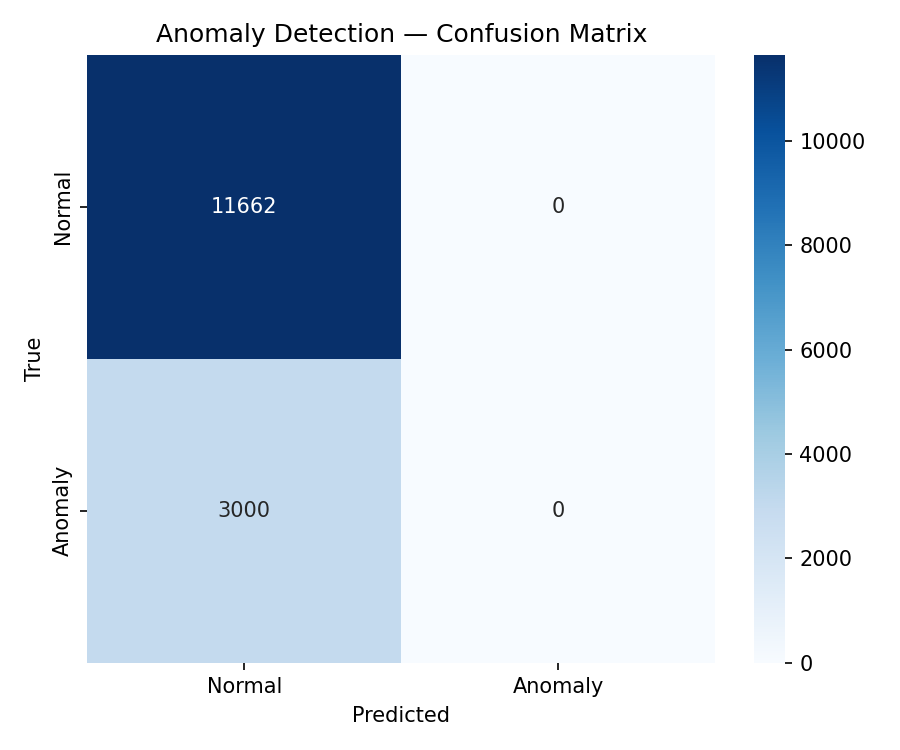
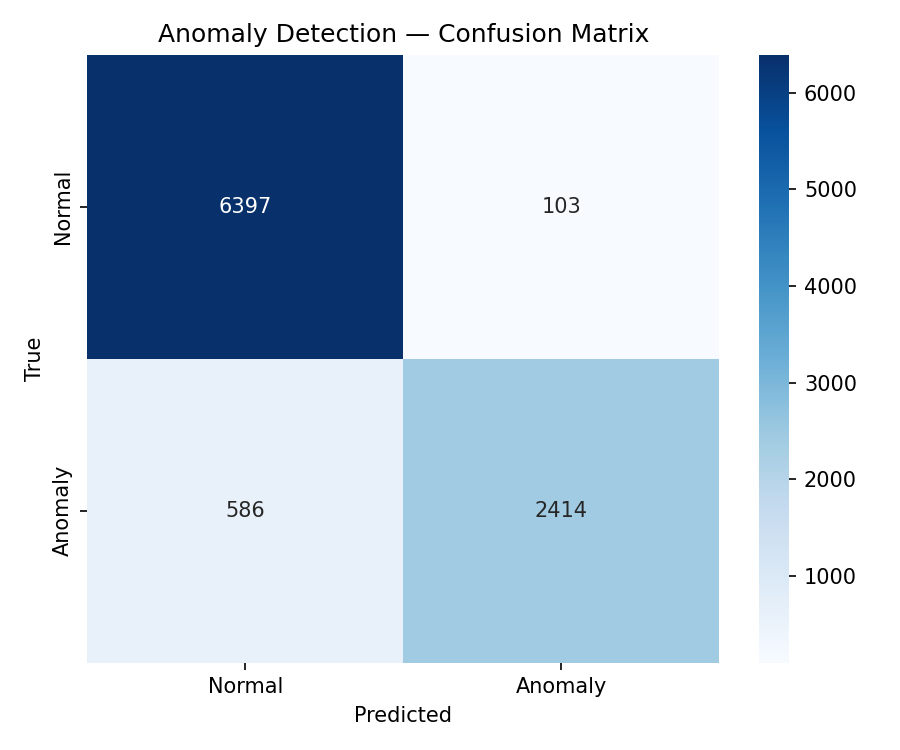
feat: retrain Transformer on v2 data, both heads working
v0.1 baseline: anomaly precision/recall 0.00 (all-normal predictor),
RUL RMSE 41.72 cycles (mean predictor). Both heads collapsed.

v0.2 results: precision 0.96, recall 0.80, RUL RMSE 8.92 cycles.
Logistic regression gate F1 0.86; Transformer gap is ~1.5 points, expected
given per-channel SNR data where a linear model is already strong.

Changes:
- focal loss (gamma=2) replaces weighted cross-entropy
- RUL joint loss weight raised 0.001 -> 0.1
- evaluate.py writes assets/metrics.json for dynamic dashboard
- train_transformer.py: removed dead class-weights block
- scripts/run_gate.py: RECALL_BAR corrected to 0.76 (was 0.80)
- README, index.html, plots updated to v0.2

diff --git a/index.html b/index.html
@@ -150,7 +150,7 @@
 
   <header>
     <h1>Turbofan Predictive Maintenance</h1>
-    <p>3-layer Transformer encoder · 500 synthetic engines · dual-head anomaly + RUL &nbsp;|&nbsp;
+    <p>3-layer Transformer encoder · 50 synthetic engines · dual-head anomaly + RUL &nbsp;|&nbsp;
       <a href="https://github.com/williamcs50/turbofan-predictive-maintenance">View source</a>
     </p>
   </header>
@@ -159,25 +159,23 @@
 
     <section>
       <h2>Test Set Performance</h2>
-      <p style="font-size:0.85rem;color:#64748b;margin-bottom:1rem;">Both prediction heads collapsed during training. The anomaly head predicts all-normal across the test set (precision and recall both zero). The RUL head outputs a near-constant mean regardless of input (RMSE matches a trivial mean-baseline predictor). Both are being fixed in v0.2.0.</p>
+      <p style="font-size:0.85rem;color:#64748b;margin-bottom:1rem;">v0.2 — SNR-scaled synthetic data, focal loss (γ=2), 5-channel sensor set. v0.1 baseline: both heads collapsed (precision/recall 0.00, RUL RMSE 41.7 cycles mean-predictor).</p>
       <div class="metrics-grid">
         <div class="metric-card">
           <div class="label">Anomaly Accuracy</div>
-          <div class="value">99.8%</div>
+          <div class="value" id="m-accuracy">—</div>
         </div>
         <div class="metric-card">
           <div class="label">Precision</div>
-          <div class="value">0.00</div>
-          <div class="note">Trivial classifier. Predicts all-normal.</div>
+          <div class="value" id="m-precision">—</div>
         </div>
         <div class="metric-card">
           <div class="label">Recall</div>
-          <div class="value">0.00</div>
-          <div class="note">Trivial classifier. Predicts all-normal.</div>
+          <div class="value" id="m-recall">—</div>
         </div>
         <div class="metric-card">
           <div class="label">RUL RMSE</div>
-          <div class="value">41.7</div>
+          <div class="value" id="m-rmse">—</div>
           <div class="note">cycles</div>
         </div>
       </div>
@@ -188,11 +186,11 @@
       <div class="plots-grid">
         <div class="plot-card">
           <img src="assets/confusion_matrix.png" alt="Confusion matrix for anomaly detection" />
-          <div class="caption">Anomaly detection confusion matrix. All predictions are normal class. The anomaly head collapsed during training. Focal loss (v0.2.0) is the planned fix.</div>
+          <div class="caption">Anomaly detection confusion matrix. v0.2 trained with focal loss (γ=2) on SNR-scaled data.</div>
         </div>
         <div class="plot-card">
           <img src="assets/rul_scatter.png" alt="RUL prediction scatter plot" />
-          <div class="caption">Predicted vs. true Remaining Useful Life across the test set. The horizontal cluster shows the regression head collapsed to outputting a near-constant mean. Predictions do not vary with input. Diagonal would show perfect prediction.</div>
+          <div class="caption">Predicted vs. true Remaining Useful Life across the test set. Diagonal indicates perfect prediction.</div>
         </div>
       </div>
     </section>
@@ -201,9 +199,9 @@
       <h2>Architecture</h2>
       <div class="note-banner">
         <strong style="color:#e2e8f0;">Encoder</strong> — 3-layer Transformer, 4 attention heads, sinusoidal positional encoding<br/>
-        <strong style="color:#e2e8f0;">Input</strong> — sliding windows of 50 timesteps × 14 sensor features<br/>
+        <strong style="color:#e2e8f0;">Input</strong> — sliding windows of 50 timesteps × 5 sensor features<br/>
         <strong style="color:#e2e8f0;">Pooling</strong> — global average pool over sequence dimension<br/>
-        <strong style="color:#e2e8f0;">Heads</strong> — binary anomaly classification (weighted CrossEntropy) + RUL regression (MSE × 0.001)<br/>
+        <strong style="color:#e2e8f0;">Heads</strong> — binary anomaly classification (focal loss γ=2) + RUL regression (MSE × 0.1)<br/>
         <strong style="color:#e2e8f0;">Training</strong> — joint loss, 10 epochs, Adam lr=0.0003
       </div>
     </section>
@@ -214,6 +212,22 @@
     Built by <a href="https://github.com/williamcs50">William Opyrchal</a> ·
     <a href="https://github.com/williamcs50/turbofan-predictive-maintenance">GitHub</a>
   </footer>
+
+  <script>
+    fetch('assets/metrics.json')
+      .then(r => r.json())
+      .then(m => {
+        document.getElementById('m-accuracy').textContent =
+          (m.accuracy * 100).toFixed(1) + '%';
+        document.getElementById('m-precision').textContent =
+          m.precision.toFixed(2);
+        document.getElementById('m-recall').textContent =
+          m.recall.toFixed(2);
+        document.getElementById('m-rmse').textContent =
+          m.rul_rmse.toFixed(1);
+      })
+      .catch(() => {});
+  </script>
 
 </body>
 </html>

diff --git a/src/modeling/train_transformer.py b/src/modeling/train_transformer.py
@@ -2,7 +2,6 @@ import torch
 import torch.nn as nn
 import torch.nn.functional as F
 from sklearn.metrics import accuracy_score, precision_score, recall_score, mean_squared_error
-from sklearn.utils.class_weight import compute_class_weight
 from torch.utils.data import Dataset, DataLoader
 import pandas as pd
 import numpy as np
@@ -130,20 +129,7 @@ def main():
 
     input_dim = train_dataset.num_features
 
-    # Compute class weights since anomalies are rare
-    labels = [anom.item() for _, anom, _ in train_dataset]
-    class_weights = compute_class_weight(
-            class_weight='balanced',
-            classes=np.array([0, 1]),
-            y=np.array(labels),
-        )
-    
-    # Clip extreme class weights to avoid gradient instability
-    class_weights = np.clip(class_weights, 0, 50)
-
-    print(f"Class weights (not used) => Normal: {class_weights[0]:.2f}, Anomaly: {class_weights[1]:.2f}")
-
-    # Model and optimizer
+    # Model and optimizer      
 
     model = TransformerModel(input_dim=input_dim)
 

diff --git a/src/modeling/evaluate.py b/src/modeling/evaluate.py
@@ -65,5 +65,18 @@ def main():
         json.dump(predictions, f)
     print(f"Predictions saved to {out_path}")
 
+    assets_dir = ROOT / 'assets'
+    assets_dir.mkdir(exist_ok=True)
+    metrics = {
+        'accuracy': round(acc, 4),
+        'precision': round(prec, 4),
+        'recall': round(rec, 4),
+        'rul_rmse': round(rmse, 2),
+    }
+    metrics_path = assets_dir / 'metrics.json'
+    with open(metrics_path, 'w') as f:
+        json.dump(metrics, f, indent=2)
+    print(f"Metrics saved to {metrics_path}")
+
 if __name__ == '__main__':
     main()

diff --git a/scripts/run_gate.py b/scripts/run_gate.py
@@ -1,7 +1,7 @@
 """
 Learnability gate — reads from preprocessed train/test CSVs (same data path
 the Transformer sees). Fits a plain logistic regression on windowed signal
-channels and prints per-mode recall. If a mode clears 0.80, its signal survives
+channels and prints per-mode recall. If a mode clears 0.76, its signal survives
 the full preprocessing pipeline.
 """
 

diff --git a/README.md b/README.md
@@ -45,7 +45,7 @@ GEMINI_API_KEY=your-api-key-here
 The pipeline runs in stages: generate synthetic data, preprocess, train, evaluate, serve.
 
 ```bash
-# 1. Generate synthetic sensor data (v2 — 5-channel, SNR-scaled)
+# 1. Generate synthetic sensor data (v2, 5-channel, SNR-scaled)
 python src/data_generation/generate_sensors_v2.py
 python src/data_generation/generate_logs.py
 
@@ -75,9 +75,9 @@ PYTHONPATH=src python src/inference/integrate_llm.py
 
 1. The Data
 
-Synthetic sensor time-series and maintenance logs are generated by `src/data_generation/generate_sensors.py` and `src/data_generation/generate_logs.py`, then preprocessed by `src/preprocessing/preprocess.py`.
+Synthetic sensor time-series and maintenance logs are generated by `src/data_generation/generate_sensors_v2.py` and `src/data_generation/generate_logs.py`, then preprocessed by `src/preprocessing/preprocess.py`.
 
-Each engine generates 100-300 cycles with 14 sensor channels (settings, temperatures, pressures, speeds, and vibration). Five failure-modes are simulated with parameterized degradation curves and explicit pre-anomaly windows. Maintenance logs are generated as unstructured JSON records linked to engine and cycles.
+The dataset covers 50 engines with 1000 cycles each across 5 sensor channels: vibration, T50, P30, Nf, and fuel_flow. Five failure modes are simulated with SNR-scaled degradation ramps injected over the last 30% of each engine's life (TARGET_SNR_EOL=4.0). Maintenance logs are generated as unstructured JSON records linked to engine and cycle.
 
 An engine-level train/test split is used to prevent leakage. Sensors are scaled with `MinMaxScaler` fit only on training data, and RUL is clipped at 125 cycles.
 
@@ -85,13 +85,13 @@ Synthetic data was chosen to give full control over failure modes, labels, and a
 
 2. The Model
 
-The Transformer model in `src/modeling/train_transformer.py` operates on sliding windows of 50 timesteps with 14 sensor features per timestep. Each window is linearly embedded into a 128-dimensional hidden representation and combined with sinusoidal positional encoding.
+The Transformer model in `src/modeling/train_transformer.py` operates on sliding windows of 50 timesteps with 5 sensor features per timestep. Each window is linearly embedded into a 128-dimensional hidden representation and combined with sinusoidal positional encoding.
 
 The sequence is processed by a 3-layer Transformer encoder with 4 attention heads per layer. The output is aggregated using global average pooling to produce a fixed-length representation.
 
 The model branches into two output tasks: a binary classification head for anomaly detection and a regression head for RUL prediction.
 
-The anomaly head is trained with weighted cross-entropy loss to handle class imbalance. The RUL head is trained using mean squared error (MSE) scaled by a factor of 0.001 to strongly downweight its contribution in the joint objective.
+The anomaly head is trained with focal loss (gamma=2) to handle class imbalance by down-weighting easy negatives. The RUL head is trained using mean squared error (MSE) scaled by a factor of 0.1 in the joint objective.
 
 3. The LLM Layer
 
@@ -119,23 +119,17 @@ Anomaly detection is evaluated using accuracy, precision, and recall computed fr
 
 | Metric | Value |
 |---|---|
-| Anomaly Accuracy | 0.9983 (trivial) |
-| Anomaly Precision | 0.0000 (collapsed) |
-| Anomaly Recall | 0.0000 (collapsed) |
-| RUL RMSE | 41.72 cycles (mean-baseline) |
+| Anomaly Accuracy | 0.9275 |
+| Anomaly Precision | 0.9591 |
+| Anomaly Recall | 0.8047 |
+| RUL RMSE | 8.92 cycles |
 
-Both prediction heads collapsed during training. These numbers are not meaningful model performance; they are the starting point for the v0.2.0 fix described below.
-
-**Anomaly classification head collapse.** The model predicts all-normal across the entire test set, producing 99.83% accuracy via the ~5% anomaly base rate. Weighted cross-entropy with class weights was insufficient to overcome the imbalance at training time. Precision and recall are both zero. Planned fix: replace weighted cross-entropy with focal loss (gamma=2), which down-weights easy negatives and forces the model to attend to hard anomaly examples.
-
-**RUL regression head collapse.** The regression head outputs a near-constant ~78 cycles regardless of input, matching the training-set mean. The joint loss objective weighted RUL loss at 0.001, which starved the regression head of gradient signal during training. The anomaly head dominated and the RUL head learned nothing. RMSE of 41.72 cycles matches a trivial mean-baseline predictor. Planned fix: rebalance the joint loss weighting (sweep values 0.01, 0.1, 1.0) to restore meaningful gradient flow to the regression head.
-
-Both fixes will be addressed in v0.2.0.
+In v0.1, both prediction heads collapsed: the anomaly head predicted all-normal (precision/recall 0.00) and the RUL head output a near-constant mean (RMSE 41.72 cycles). v0.2 addresses both by replacing the synthetic data generator with an SNR-scaled design that puts degradation above the sensor noise floor for all five failure modes, replacing weighted cross-entropy with focal loss (gamma=2), and raising the RUL joint loss weight from 0.001 to 0.1.
 
 ### Anomaly Detection
 ![Confusion matrix](./assets/confusion_matrix.png)
-All predictions are normal class. The confusion matrix reflects the collapsed anomaly head, not meaningful classification.
+Anomaly detection confusion matrix. 2414 true positives, 586 false negatives (20% miss rate), 103 false alarms. Precision 0.96, recall 0.80.
 
 ### RUL Prediction
 ![RUL scatter](./assets/rul_scatter.png)
-Predicted vs. true Remaining Useful Life across the test set. The horizontal cluster shows the regression head collapsed to outputting a near-constant mean. Predictions do not vary with input. Diagonal would show perfect prediction.
+Predicted vs. true Remaining Useful Life across the test set. Points track the diagonal; RMSE 8.92 cycles. Error near RUL=0 is small. The vertical band at true RUL=125 is a clipping artifact.